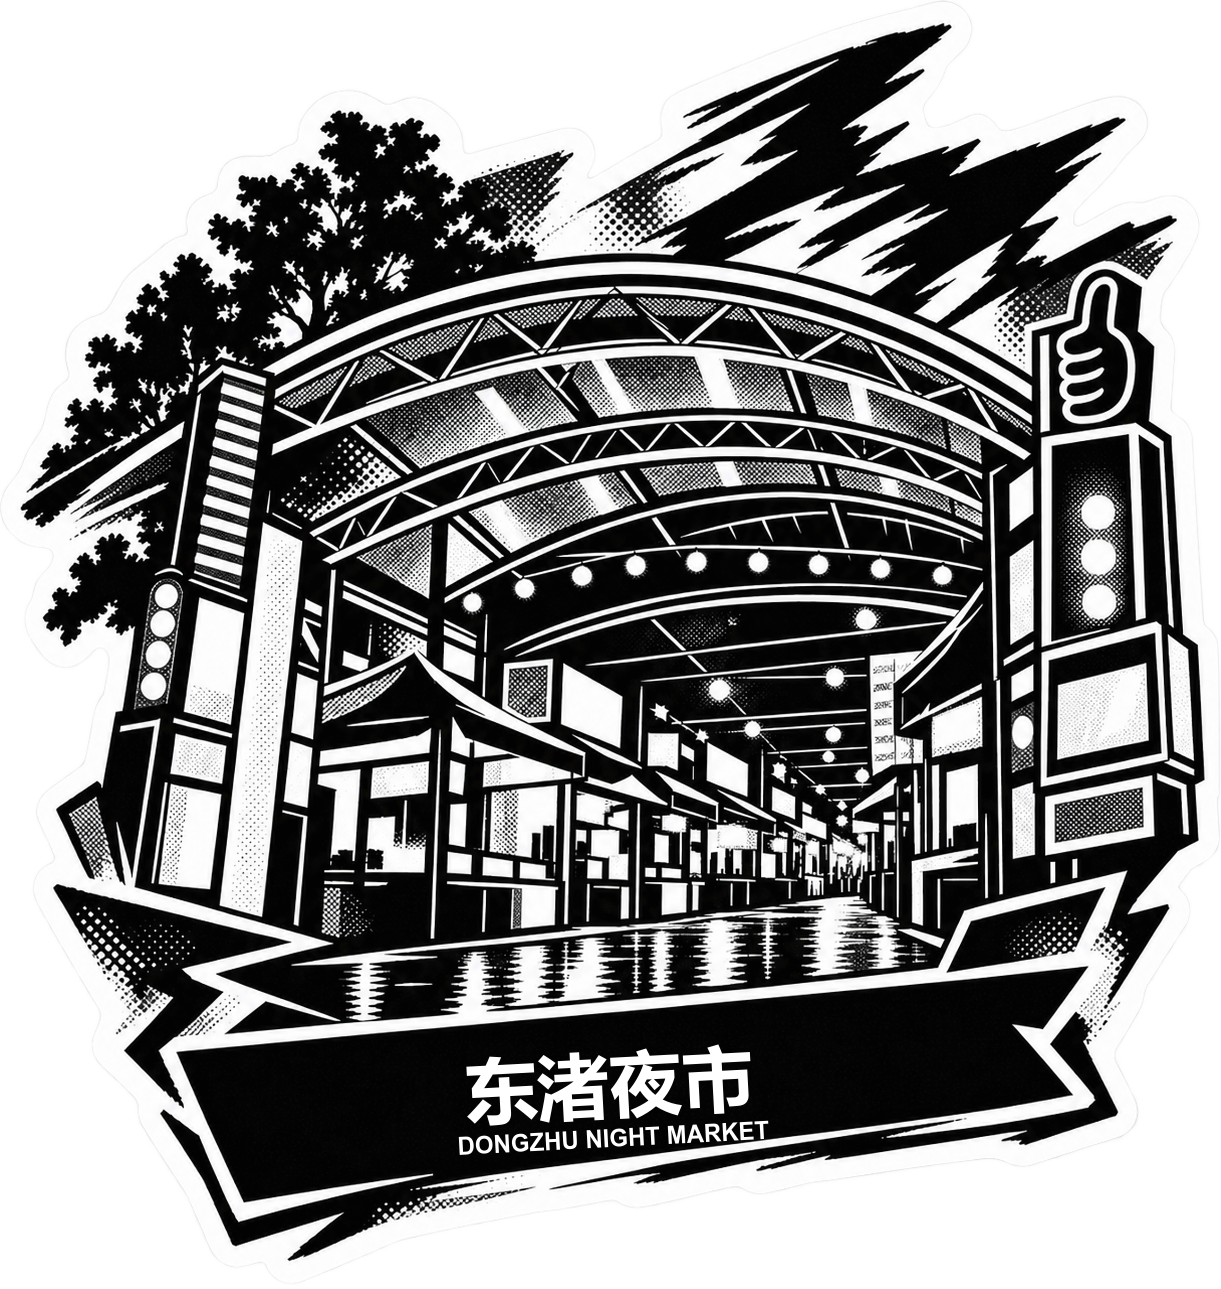
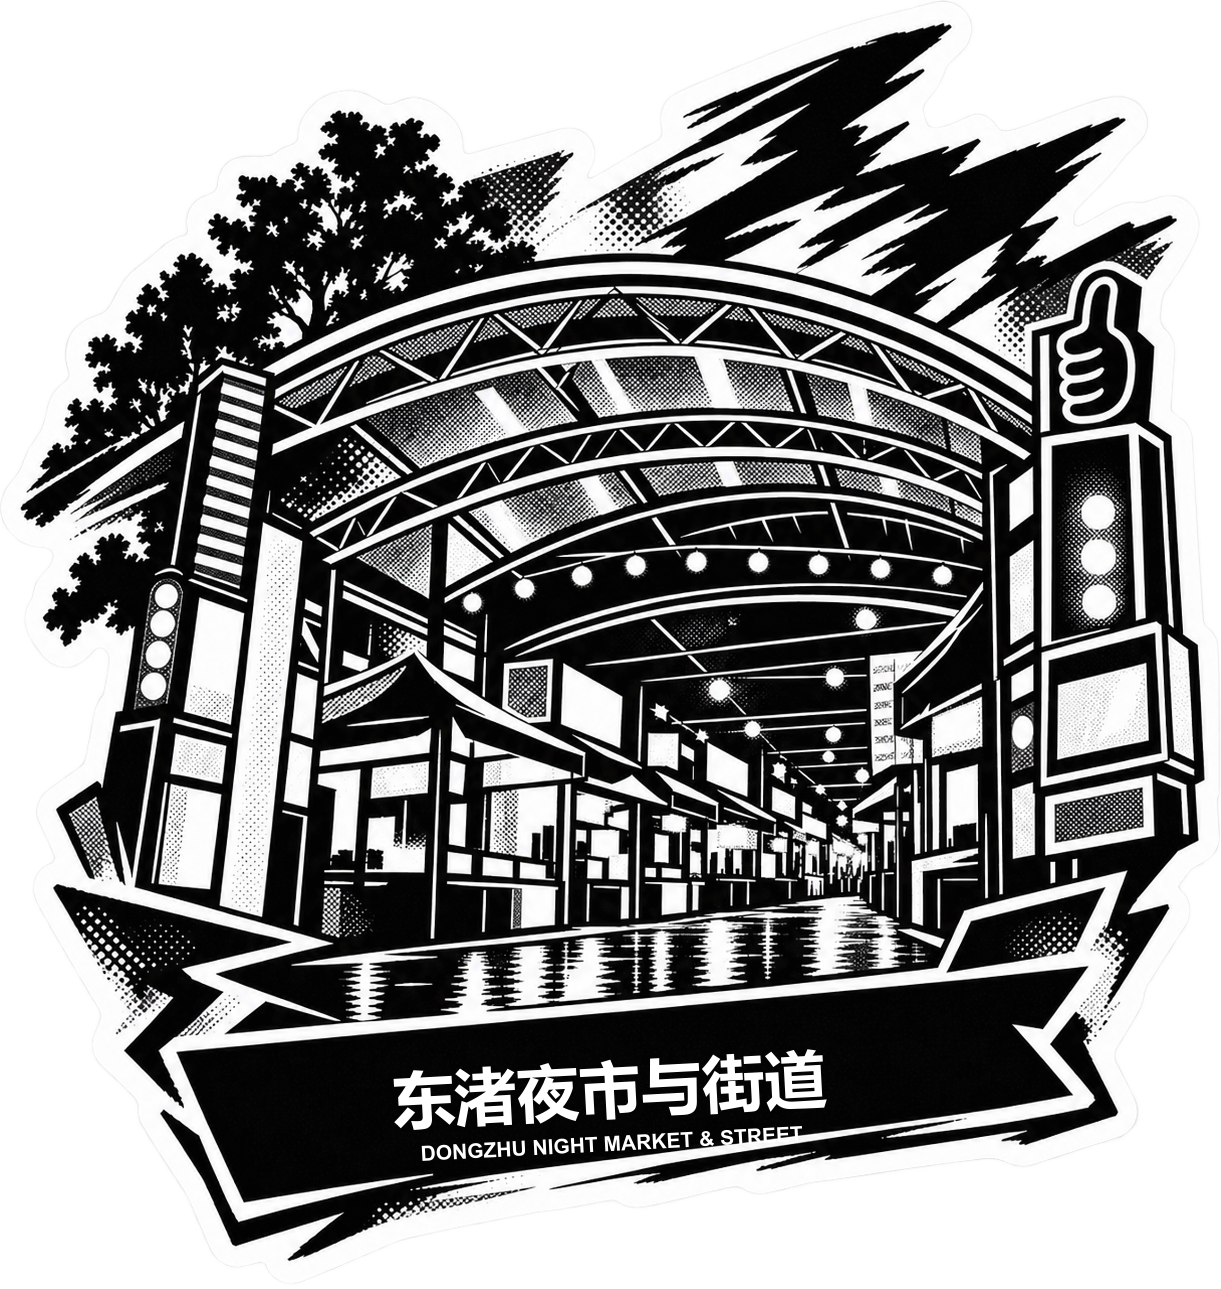
Add Dongzhu shop log experience

Changed region(s): [[0.3112, 0.8068, 0.6847, 0.8999]]

diff --git a/src/App.tsx b/src/App.tsx
@@ -2,7 +2,7 @@ import { useCallback, useEffect, useMemo, useState } from 'react'
 import { MapView } from './components/MapView'
 import { places, routes } from './data/content'
 import { loadRemoteMedia } from './services/mediaApi'
-import type { MediaItem } from './types/content'
+import type { MediaItem, Shop } from './types/content'
 import { artworkDataUri } from './map/artwork'
 
 function MediaBlock({ item, onPreview }: { item: MediaItem; onPreview: () => void }) {
@@ -102,19 +102,51 @@ function ImageLightbox({ items, index, onClose, onNavigate }: { items: MediaItem
   )
 }
 
+function ShopCard({ shop, onOpen }: { shop: Shop; onOpen: () => void }) {
+  const cover = shop.media[0]
+
+  return (
+    <button className="shop-card" type="button" onClick={onOpen} aria-label={`打开探店：${shop.name}`}>
+      <span className="shop-card__cover">
+        {cover && <img src={cover.src} alt="" loading="lazy" />}
+        <span className="shop-card__count">{shop.media.length.toString().padStart(2, '0')} PHOTOS</span>
+      </span>
+      <span className="shop-card__copy">
+        <span className="shop-card__category">{shop.category}</span>
+        <strong className="shop-card__name">{shop.name}</strong>
+        <span className="shop-card__summary">{shop.summary}</span>
+        <span className="shop-card__open">OPEN LOG <span aria-hidden="true">↗</span></span>
+      </span>
+    </button>
+  )
+}
+
 function App() {
   const [activePlaceId, setActivePlaceId] = useState<string | null>(null)
   const [hoveredPlaceId, setHoveredPlaceId] = useState<string | null>(null)
   const [activeRouteId, setActiveRouteId] = useState<string | null>(routes[0]?.id ?? null)
   const [remoteMedia, setRemoteMedia] = useState<Record<string, MediaItem[]>>({})
   const [previewIndex, setPreviewIndex] = useState<number | null>(null)
+  const [selectedShopId, setSelectedShopId] = useState<string | null>(null)
 
   const activePlace = useMemo(
     () => places.find((place) => place.id === activePlaceId) ?? null,
     [activePlaceId],
   )
-  const previewItems = activePlace ? (remoteMedia[activePlace.id] ?? activePlace.media) : []
+  const selectedShop = activePlace?.shops?.find((shop) => shop.id === selectedShopId) ?? null
+  const hasShops = Boolean(activePlace?.shops?.length)
+  const previewItems = selectedShop
+    ? selectedShop.media
+    : activePlace
+      ? (remoteMedia[activePlace.id] ?? activePlace.media)
+      : []
   const previewItem = previewIndex === null ? null : previewItems[previewIndex] ?? null
+
+  useEffect(() => {
+    setSelectedShopId(null)
+    setPreviewIndex(null)
+  }, [activePlaceId])
+
   useEffect(() => {
     if (!activePlace) return
     const controller = new AbortController()
@@ -132,6 +164,11 @@ function App() {
 
   const handleSelectPlace = useCallback((placeId: string) => {
     setActivePlaceId(placeId)
+  }, [])
+
+  const handleSelectShop = useCallback((shopId: string) => {
+    setSelectedShopId(shopId)
+    setPreviewIndex(null)
   }, [])
 
   const handleSelectRoute = useCallback((routeId: string) => {
@@ -166,12 +203,59 @@ function App() {
             />
             <div className="detail-drawer__identity-copy">
               <h1 className="detail-drawer__identity-name">{activePlace.title}</h1>
-              <p className="detail-drawer__identity-subtitle">{activePlace.subtitle}</p>
+              {activePlace.englishTitle && <p className="detail-drawer__identity-english">{activePlace.englishTitle}</p>}
+              <p className="detail-drawer__identity-subtitle">{activePlace.subtitle} <span aria-hidden="true">·</span> {activePlace.date}</p>
             </div>
           </div>
-          <div className="media-grid">
-            {previewItems.map((item, index) => <MediaBlock key={`${item.type}-${index}`} item={item} onPreview={() => setPreviewIndex(index)} />)}
-          </div>
+          {selectedShop ? (
+            <section className="shop-detail" aria-label={`${selectedShop.name}探店详情`}>
+              <button className="shop-detail__back" type="button" onClick={() => setSelectedShopId(null)}>
+                <span aria-hidden="true">←</span> 返回地点
+              </button>
+              <div className="shop-detail__heading">
+                <span className="detail-section__index">SHOP / {selectedShop.category.toUpperCase()}</span>
+                <h2>{selectedShop.name}</h2>
+              </div>
+              <p className="detail-drawer__description">{selectedShop.description}</p>
+              {selectedShop.tags && (
+                <div className="shop-tags" aria-label="店铺标签">
+                  {selectedShop.tags.map((tag) => <span key={tag}>{tag}</span>)}
+                </div>
+              )}
+              <div className="detail-section__heading">
+                <span className="detail-section__index">01 / PHOTO LOG</span>
+                <h3>现场照片</h3>
+              </div>
+              <div className="media-grid">
+                {previewItems.map((item, index) => <MediaBlock key={`${item.type}-${index}`} item={item} onPreview={() => setPreviewIndex(index)} />)}
+              </div>
+            </section>
+          ) : (
+            <>
+              <p className="detail-drawer__description">{activePlace.description}</p>
+              {hasShops && activePlace.shops && (
+                <section className="detail-section detail-section--shops" aria-label="探店列表">
+                  <div className="detail-section__heading">
+                    <span className="detail-section__index">01 / SHOPPING LOG</span>
+                    <h2>探店</h2>
+                    <span className="detail-section__count">{activePlace.shops.length.toString().padStart(2, '0')} PLACES</span>
+                  </div>
+                  <div className="shop-list">
+                    {activePlace.shops.map((shop) => <ShopCard key={shop.id} shop={shop} onOpen={() => handleSelectShop(shop.id)} />)}
+                  </div>
+                </section>
+              )}
+              <section className="detail-section" aria-label="地点照片">
+                <div className="detail-section__heading">
+                  <span className="detail-section__index">{hasShops ? '02' : '01'} / FIELD NOTES</span>
+                  <h2>地点图册</h2>
+                </div>
+                <div className="media-grid">
+                  {(remoteMedia[activePlace.id] ?? activePlace.media).map((item, index) => <MediaBlock key={`${item.type}-${index}`} item={item} onPreview={() => setPreviewIndex(index)} />)}
+                </div>
+              </section>
+            </>
+          )}
         </aside>
       )}
 

diff --git a/src/styles/global.css b/src/styles/global.css
@@ -57,8 +57,34 @@ button { font: inherit; }
 .detail-drawer__identity { display: grid; grid-template-columns: 86px minmax(0, 1fr); align-items: start; gap: 10px; margin: 0 0 24px; }
 .detail-drawer__identity-icon { grid-column: 1; grid-row: 1; display: block; width: 86px; height: 86px; object-fit: contain; }
 .detail-drawer__identity-copy { grid-column: 2; grid-row: 1; min-width: 0; padding-top: 7px; }
-.detail-drawer__identity-name { margin: 0; color: var(--paper); font: 38px/0.98 var(--display); letter-spacing: 0.01em; text-shadow: 4px 4px 0 var(--red-dark); }
+.detail-drawer__identity-name { margin: 0; color: var(--paper); font: 31px/0.98 var(--display); letter-spacing: -0.01em; white-space: nowrap; text-shadow: 3px 3px 0 var(--red-dark); }
+.detail-drawer__identity-english { margin: 8px 0 0; color: var(--paper-soft); font: 10px/1.15 var(--mono); letter-spacing: 0.04em; }
 .detail-drawer__identity-subtitle { margin: 12px 0 0; color: var(--yellow); font: 16px/1.1 var(--body); letter-spacing: 0.03em; }
+.detail-drawer__description { margin: 0 0 26px; color: var(--paper-soft); font: 15px/1.55 var(--body); }
+.detail-section { margin-top: 28px; }
+.detail-section__heading { display: flex; align-items: baseline; gap: 10px; margin: 0 0 12px; padding-bottom: 8px; border-bottom: 1px solid var(--line); }
+.detail-section__heading h2, .detail-section__heading h3 { margin: 0; color: var(--paper); font: 22px/1 var(--display); letter-spacing: 0.04em; }
+.detail-section__heading h3 { font-size: 18px; }
+.detail-section__index { color: var(--yellow); font: 9px var(--mono); letter-spacing: 0.1em; }
+.detail-section__count { margin-left: auto; color: var(--paper-soft); font: 9px var(--mono); letter-spacing: 0.06em; }
+.shop-list { display: grid; gap: 12px; }
+.shop-card { display: grid; grid-template-columns: 100px minmax(0, 1fr); width: 100%; padding: 0; overflow: hidden; color: var(--paper); text-align: left; background: rgba(17,17,17,0.64); border: 1px solid var(--line); border-left: 4px solid var(--red); cursor: pointer; transition: transform 160ms ease, border-color 160ms ease, background 160ms ease; }
+.shop-card:hover, .shop-card:focus-visible { background: rgba(17,17,17,0.94); border-color: var(--paper); transform: translateX(-3px) rotate(-0.5deg); outline: none; }
+.shop-card__cover { position: relative; display: block; min-height: 100%; overflow: hidden; background: #292929; }
+.shop-card__cover img { display: block; width: 100%; height: 100%; min-height: 112px; object-fit: cover; filter: saturate(0.72) contrast(1.08); transition: transform 180ms ease, filter 180ms ease; }
+.shop-card:hover .shop-card__cover img, .shop-card:focus-visible .shop-card__cover img { transform: scale(1.06); filter: saturate(0.9) contrast(1.1); }
+.shop-card__count { position: absolute; right: 5px; bottom: 5px; padding: 3px 4px; color: var(--paper); background: rgba(17,17,17,0.82); font: 8px var(--mono); letter-spacing: 0.03em; }
+.shop-card__copy { display: flex; min-width: 0; flex-direction: column; align-items: flex-start; gap: 5px; padding: 11px 12px 10px; }
+.shop-card__category { color: var(--yellow); font: 9px var(--mono); letter-spacing: 0.1em; text-transform: uppercase; }
+.shop-card__name { color: var(--paper); font: 24px/1 var(--display); letter-spacing: 0.04em; }
+.shop-card__summary { display: block; color: var(--paper-soft); font: 12px/1.35 var(--body); }
+.shop-card__open { margin-top: auto; color: var(--red); font: 9px var(--mono); letter-spacing: 0.08em; }
+.shop-detail__back { display: inline-flex; gap: 7px; align-items: center; margin: 0 0 18px; padding: 0; color: var(--yellow); border: 0; background: transparent; cursor: pointer; font: 10px var(--mono); letter-spacing: 0.08em; }
+.shop-detail__back:hover, .shop-detail__back:focus-visible { color: var(--paper); outline: none; }
+.shop-detail__heading { display: flex; align-items: baseline; justify-content: space-between; gap: 10px; margin-bottom: 14px; }
+.shop-detail__heading h2 { margin: 4px 0 0; color: var(--paper); font: 34px/1 var(--display); letter-spacing: 0.04em; text-shadow: 3px 3px 0 var(--red-dark); }
+.shop-tags { display: flex; flex-wrap: wrap; gap: 6px; margin: -8px 0 24px; }
+.shop-tags span { padding: 4px 7px; color: var(--ink); background: var(--paper); font: 9px var(--mono); letter-spacing: 0.05em; }
 .media-grid { display: grid; gap: 12px; }
 .media-figure { margin: 0; }
 .media-preview-trigger { display: block; width: 100%; padding: 0; border: 0; background: transparent; cursor: zoom-in; }
@@ -95,9 +121,13 @@ button { font: inherit; }
   .detail-drawer__identity { grid-template-columns: 64px minmax(0, 1fr); gap: 9px; margin-bottom: 18px; }
   .detail-drawer__identity-icon { width: 64px; height: 64px; }
   .detail-drawer__identity-copy { padding-top: 3px; }
-  .detail-drawer__identity-name { font-size: 31px; }
+  .detail-drawer__identity-name { font-size: 27px; }
+  .detail-drawer__identity-english { margin-top: 6px; font-size: 8px; }
   .detail-drawer__identity-subtitle { margin-top: 8px; font-size: 14px; }
   .detail-drawer__close { top: 22px; right: 7%; }
+  .detail-drawer__description { font-size: 14px; }
+  .shop-card { grid-template-columns: 92px minmax(0, 1fr); }
+  .shop-card__name { font-size: 22px; }
   .media-grid { grid-template-columns: repeat(2, minmax(0, 1fr)); }
 }
 
@@ -111,6 +141,8 @@ button { font: inherit; }
   .place-marker__pin::after { inset: 5px; }
   .place-marker__label { padding: 7px 10px; font-size: 14px; box-shadow: 4px 4px 0 var(--red); }
   .detail-drawer { max-height: 78vh; }
+  .detail-section__heading h2 { font-size: 20px; }
+  .detail-section__index { font-size: 8px; }
   .media-grid { grid-template-columns: 1fr; }
   .media-lightbox { padding: 22px; }
   .media-lightbox__stage { max-width: calc(100vw - 124px); max-height: calc(100vh - 44px); }

diff --git a/tests/smoke.spec.ts b/tests/smoke.spec.ts
@@ -7,7 +7,7 @@ test('renders the current destination markers without demo content', async ({ pa
   await expect(page.locator('.place-marker')).toHaveCount(2)
   await expect(page.locator('.place-marker__art')).toHaveCount(2)
   await expect(page.getByRole('button', { name: '打开地点：南京大学苏州校区' })).toHaveClass(/place-marker--sticker/)
-  await expect(page.getByRole('button', { name: '打开地点：东渚夜市' })).toHaveClass(/place-marker--sticker/)
+  await expect(page.getByRole('button', { name: '打开地点：东渚夜市与街道' })).toHaveClass(/place-marker--sticker/)
   await expect(page.getByRole('region', { name: '路线图例' })).toHaveCount(0)
 })
 
@@ -44,7 +44,7 @@ test('shows the selected place identity and hides map overlays in the detail vie
 test('keeps other place markers visible and allows switching directly between places', async ({ page }) => {
   await page.goto('/')
   const campusMarker = page.getByRole('button', { name: '打开地点：南京大学苏州校区' })
-  const nightMarketMarker = page.getByRole('button', { name: '打开地点：东渚夜市' })
+  const nightMarketMarker = page.getByRole('button', { name: '打开地点：东渚夜市与街道' })
 
   await campusMarker.click()
   await expect(page.getByRole('complementary', { name: '南京大学苏州校区详情' })).toBeVisible()
@@ -52,9 +52,26 @@ test('keeps other place markers visible and allows switching directly between pl
   await expect(nightMarketMarker).toHaveCSS('visibility', 'visible')
 
   await nightMarketMarker.click()
-  await expect(page.getByRole('complementary', { name: '东渚夜市详情' })).toBeVisible()
+  await expect(page.getByRole('complementary', { name: '东渚夜市与街道详情' })).toBeVisible()
   await expect(campusMarker).toBeVisible()
   await expect(campusMarker).toHaveCSS('visibility', 'visible')
+})
+
+test('opens the first Dongzhu shop log with the storefront photo first', async ({ page }) => {
+  await page.goto('/')
+  await page.getByRole('button', { name: '打开地点：东渚夜市与街道' }).click()
+  await expect(page.getByRole('complementary', { name: '东渚夜市与街道详情' })).toBeVisible()
+  await expect(page.getByRole('heading', { name: '探店' })).toBeVisible()
+
+  await page.getByRole('button', { name: '打开探店：椒点川菜' }).click()
+  await expect(page.getByRole('region', { name: '椒点川菜探店详情' })).toBeVisible()
+  await expect(page.getByRole('heading', { name: '椒点川菜' })).toBeVisible()
+  await expect(page.getByRole('button', { name: '预览：椒点川菜店铺门头照片' }).first()).toBeVisible()
+  await expect(page.locator('.media-preview-trigger')).toHaveCount(5)
+  await expect(page.locator('.shop-detail .media-figure figcaption')).toHaveCount(0)
+
+  await page.getByRole('button', { name: /返回地点/ }).click()
+  await expect(page.getByRole('button', { name: '打开探店：椒点川菜' })).toBeVisible()
 })
 
 test('has a GitHub repository link in the lower-left corner', async ({ page }) => {

diff --git a/src/types/content.ts b/src/types/content.ts
@@ -8,6 +8,16 @@ export type MediaItem = {
   caption?: string
 }
 
+export type Shop = {
+  id: string
+  name: string
+  category: string
+  summary: string
+  description: string
+  tags?: string[]
+  media: MediaItem[]
+}
+
 export type ArtworkSpec = {
   seed?: string
   variant?: 'burst' | 'slash' | 'orbit'
@@ -16,6 +26,7 @@ export type ArtworkSpec = {
 export type Place = {
   id: string
   title: string
+  englishTitle?: string
   subtitle: string
   date: string
   coordinates: Coordinates
@@ -25,6 +36,7 @@ export type Place = {
   accent: 'red' | 'yellow'
   description: string
   media: MediaItem[]
+  shops?: Shop[]
   markerImage?: string
   art?: ArtworkSpec
 }

diff --git a/README.md b/README.md
@@ -64,6 +64,8 @@ npm run test:e2e
 - `coordinateReference` 必须说明坐标依据；
 - `routeId`（可选）指向 `src/data/routes.json` 中的路线；
 - `media` 支持多张图片和视频；
+- `englishTitle`（可选）用于详情页的英文地点名；
+- `shops`（可选）用于地点下的探店记录，每条记录包含店名、类型、简介和独立照片集；
 - `markerImage` 可指定地点图标；
 - `art` 可生成稳定的地点图案。
 
@@ -90,6 +92,12 @@ npm run validate:places
 
 ```text
 public/media/<地点 id>/
+```
+
+探店照片可以继续按店铺分目录保存：
+
+```text
+public/media/<地点 id>/shops/<店铺 id>/
 ```
 
 原始照片可以保存在本地项目目录：
